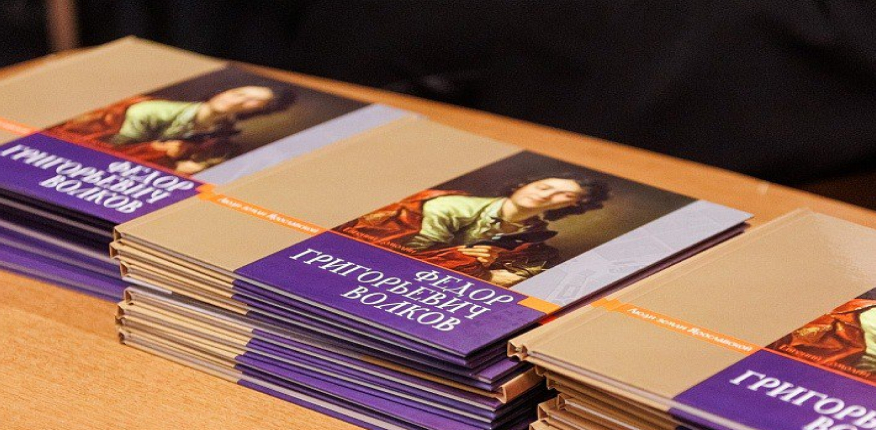
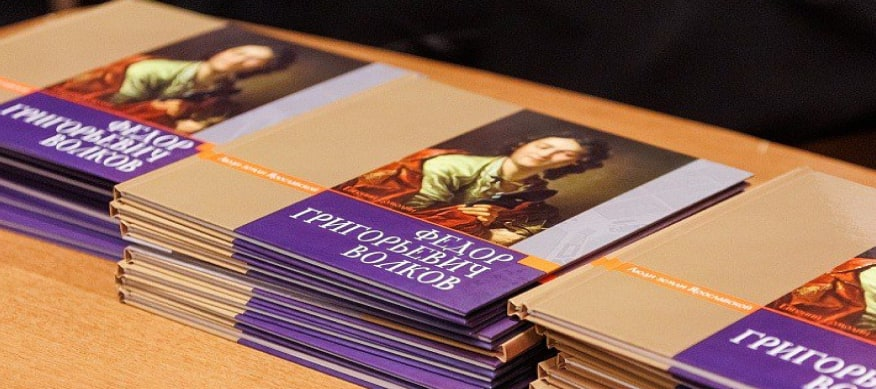
performance

diff --git a/src/styles/_performance.css b/src/styles/_performance.css
@@ -6,14 +6,13 @@
     display: grid;
     grid-template-columns: 592px 592px;
     background-color: #FFFFFF;
-    color-scheme: light;
     border-radius: calc(var(--radius) + 1px); /* (1) радиус всей карточки на единичку больше из-за визуальных артфектов светлого фона под тёмными фотками */
     color: #303F64;
 }
     .performance__data {
         display: flex;
         flex-direction: column;
-        padding: 40px 40px 60px;
+        padding: 40px 0 40px 40px;
     }
         .performance__heading {
             margin-top: 0;
@@ -82,7 +81,7 @@
         grid-template-columns: 564px 876px;
     }
         .performance__data {
-            padding: 40px 0 40px 40px;
+
         }
             .performance__heading {
                 font-size: 36px;
@@ -130,7 +129,7 @@
 @media (width < 740px) {
 
     .performance {
-        --radius: 19px;
+        --radius: 8px;
     }
 
     .performance {
@@ -155,19 +154,24 @@
         .performance__note {
             display: block;
             overflow: visible;
-            margin-top: 8px;
+            margin-top: 6px;
             height: auto;
             font-size: 16px;
             line-height: 22px;
         }
 
         .performance__preview {
+            display: block;
+            margin-top: 16px;
+             margin-left: 16px;
             /*position: relative;*/
             /*height: 100%;*/
             /*overflow: hidden;*/
             /*border-top-right-radius: var(--radius); !* у фоток радиус на единичку меньше, чтобы перекрыть белые артефакты фона по контуру *!*/
             /*border-bottom-right-radius: var(--radius); !* у фоток радиус на единичку меньше, чтобы перекрыть белые артефакты фона по контуру *!*/
-            /*transition: filter var(--transition-hover);*/
+            border-top-right-radius: 0;
+            /*transition: filter
+            var(--transition-hover);*/
         }
 
         .performance__preview:hover {
@@ -178,6 +182,7 @@
                 padding-top: 0;
                 height: 211px;
                 /*border-top-left-radius: 500px;*/
+                border-top-left-radius: 211px;
                 /*overflow: hidden;*/
             }
                 .performance__image {
@@ -185,8 +190,6 @@
                     width: 100%;
                     height: 100%;
                     /*object-fit: cover;*/
-                    border-bottom-left-radius: var(--radius);
-                    border-bottom-right-radius: var(--radius);
                 }
 }
 

diff --git a/src/layouts/index.html b/src/layouts/index.html
@@ -89,26 +89,6 @@
                 </div>
             </header>
             <div class="content container">
-                <div class="content__breadcrumbs">
-                    <nav class="breadcrumbs">
-                        <div class="breadcrumbs__scroll hide-scrollbar">
-                            <div class="breadcrumbs__ribbon">
-                                <div class="breadcrumbs__item">
-                                    <a class="breadcrumbs__link" href="#">Главная</a>
-                                </div>
-                                <div class="breadcrumbs__item">
-                                    <a class="breadcrumbs__link" href="#">Волковская энциклопедия</a>
-                                </div>
-                                <div class="breadcrumbs__item">
-                                    <a class="breadcrumbs__link" href="#">Персоналии</a>
-                                </div>
-                                <div class="breadcrumbs__item">
-                                    <div class="breadcrumbs__title">Труппа</div>
-                                </div>
-                            </div>
-                        </div>
-                    </nav>
-                </div>
                 <div class="content__unique-part">
                     <div class="performance performance--excursions">
                         <div class="performance__data">
@@ -125,7 +105,7 @@
                                      srcset="../content/book-card/book-card@2x.jpg 2x"
                                      src="../content/book-card/book-card@1x.jpg"
                                      width="876"
-                                     height="430"
+                                     height="389"
                                      alt=""
                                 >
                             </div>

diff --git a/src/styles/_content.css b/src/styles/_content.css
@@ -10,6 +10,10 @@
         margin-top: 32px;
     }
 
+    .content__unique-part:first-child {
+        margin-top: 2px;
+    }
+
 
 
 @media (1700px <= width) {
@@ -24,6 +28,10 @@
 
         .content__unique-part  {
             /*margin-top: 32px;*/
+        }
+
+        .content__unique-part:first-child {
+            margin-top: 6px;
         }
 }
 
@@ -41,6 +49,10 @@
 
         .content__unique-part  {
             margin-top: 16px;
+        }
+
+        .content__unique-part:first-child {
+            margin-top: 6px;
         }
 }
 
